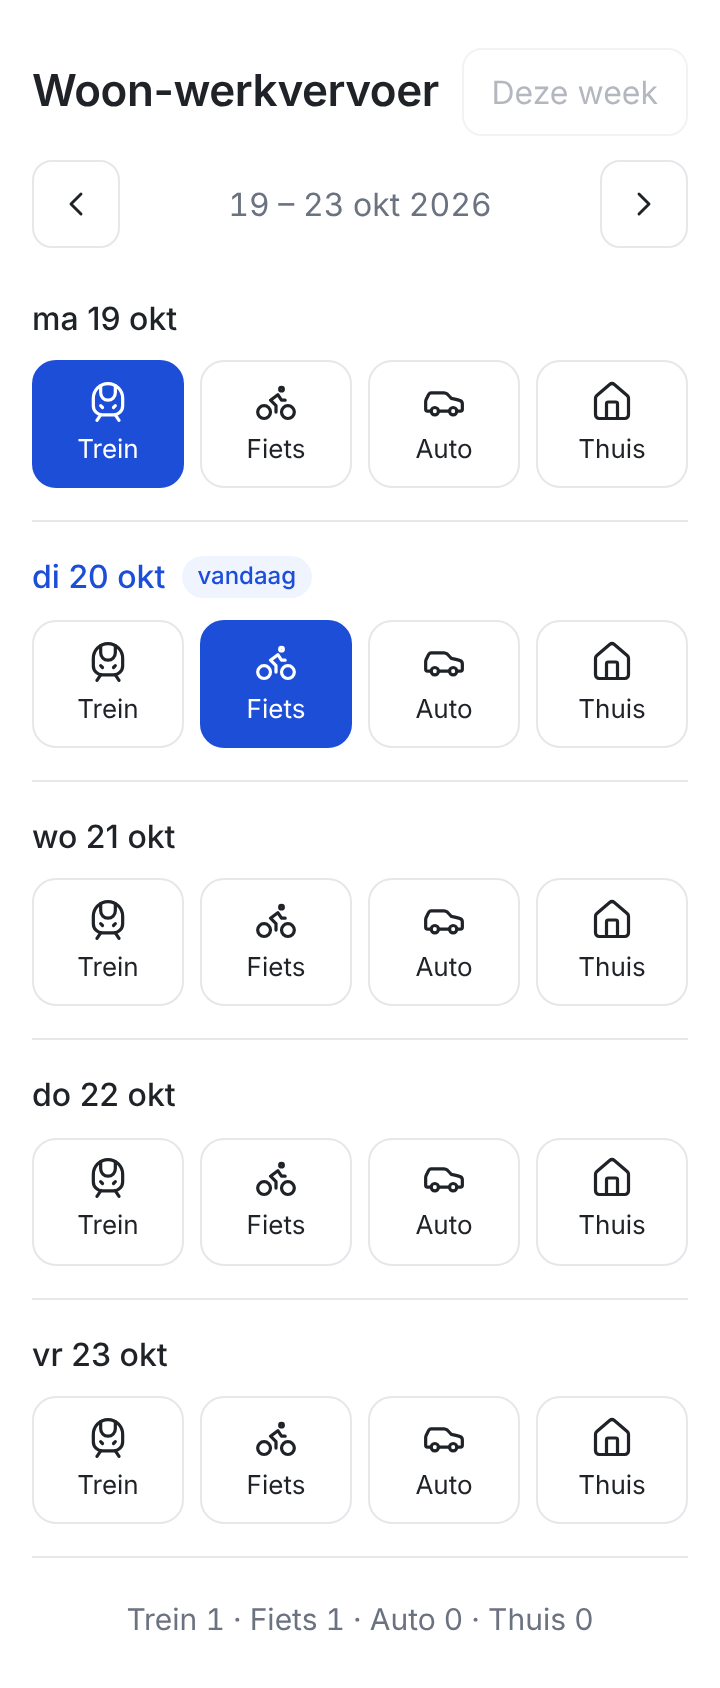
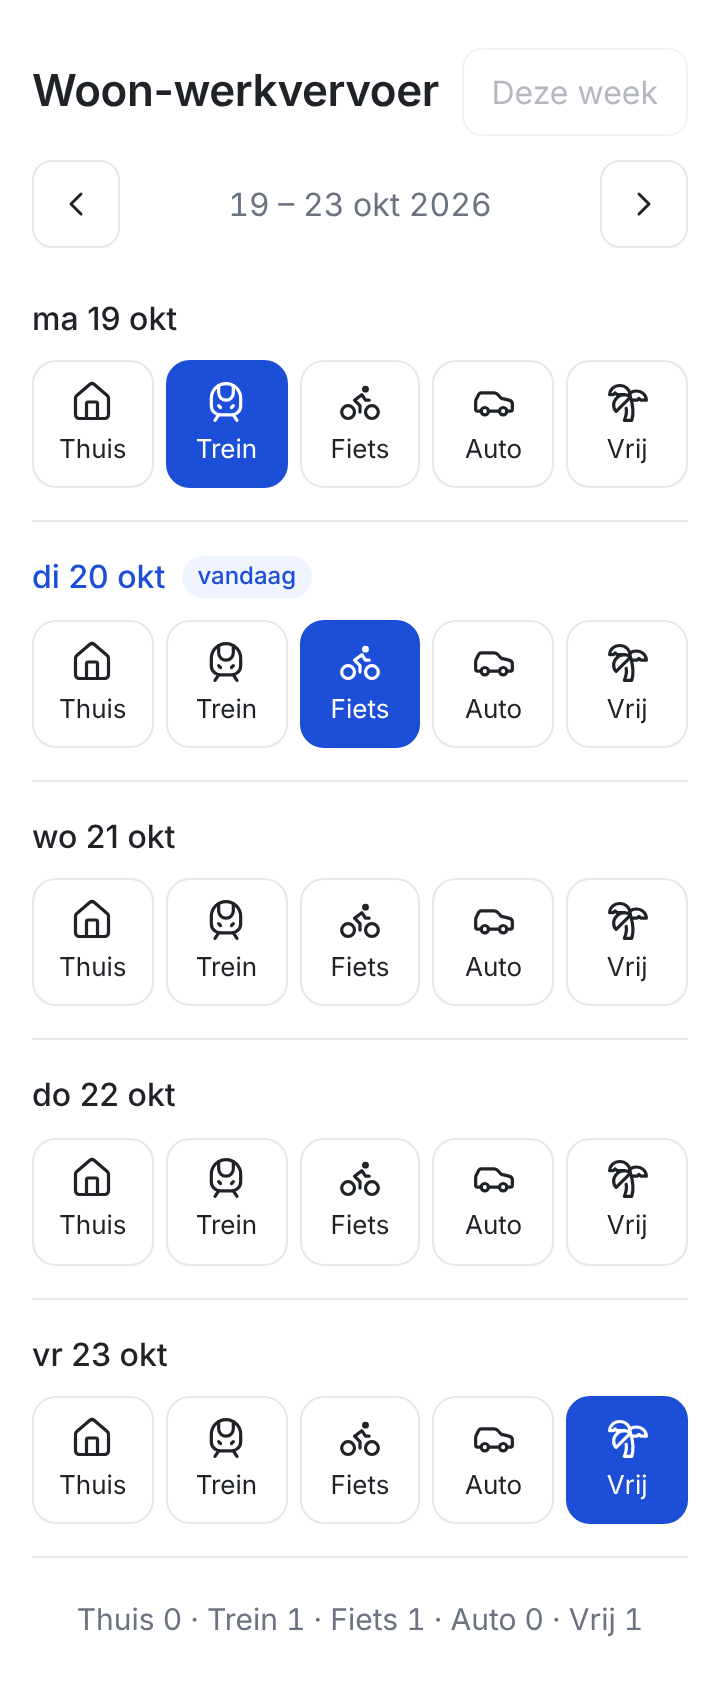
Keuze "Vrij" toevoegen en volgorde aanpassen (SPEC v0.6)
Volgorde van de knoppen en totalen is nu Thuis, Trein, Fiets, Auto, Vrij.
Nieuw criterium AC2b test die volgorde; AC8 telt ook Vrij mee.

Claude-Session: https://claude.ai/code/session_01HkgF8UVQLVV5ARiTjKdSa4

diff --git a/src/App.test.tsx b/src/App.test.tsx
@@ -55,6 +55,15 @@ describe('AC2 en AC3: vervoer kiezen', () => {
     expect(chosenModes('dinsdag 20 oktober')).toEqual(['Fiets'])
   })
 
+  it('toont de knoppen in de volgorde Thuis, Trein, Fiets, Auto, Vrij (AC2b)', () => {
+    render(<App />)
+    for (const d of screen.getAllByRole('listitem')) {
+      expect(within(d).getAllByRole('button').map((b) => b.textContent)).toEqual([
+        'Thuis', 'Trein', 'Fiets', 'Auto', 'Vrij',
+      ])
+    }
+  })
+
   it('verandert niets aan de andere dagen', async () => {
     const user = userEvent.setup()
     render(<App />)
@@ -130,7 +139,8 @@ describe('AC8: weektotalen', () => {
     await user.click(modeButton('dinsdag 20 oktober', 'Trein'))
     await user.click(modeButton('woensdag 21 oktober', 'Fiets'))
     await user.click(modeButton('donderdag 22 oktober', 'Thuis'))
-    expect(screen.getByTestId('totalen')).toHaveTextContent('Trein 2 · Fiets 1 · Auto 0 · Thuis 1')
+    await user.click(modeButton('vrijdag 23 oktober', 'Vrij'))
+    expect(screen.getByTestId('totalen')).toHaveTextContent('Thuis 1 · Trein 2 · Fiets 1 · Auto 0 · Vrij 1')
   })
 })
 

diff --git a/src/App.tsx b/src/App.tsx
@@ -1,13 +1,14 @@
 import { useEffect, useState } from 'react'
-import { Bike, Car, ChevronLeft, ChevronRight, House, TrainFront, type LucideIcon } from 'lucide-react'
+import { Bike, Car, ChevronLeft, ChevronRight, House, TrainFront, TreePalm, type LucideIcon } from 'lucide-react'
 import { dateKey, longLabel, mondayOf, shortLabel, addDays, weekLabel, workdays } from './dates'
 import { MODES, loadRegistrations, saveRegistrations, type Mode, type Registrations } from './storage'
 
 const MODE_INFO: Record<Mode, { label: string; Icon: LucideIcon }> = {
+  thuis: { label: 'Thuis', Icon: House },
   trein: { label: 'Trein', Icon: TrainFront },
   fiets: { label: 'Fiets', Icon: Bike },
   auto: { label: 'Auto', Icon: Car },
-  thuis: { label: 'Thuis', Icon: House },
+  vrij: { label: 'Vrij', Icon: TreePalm },
 }
 
 export default function App() {

diff --git a/src/storage.ts b/src/storage.ts
@@ -1,4 +1,4 @@
-export const MODES = ['trein', 'fiets', 'auto', 'thuis'] as const
+export const MODES = ['thuis', 'trein', 'fiets', 'auto', 'vrij'] as const
 export type Mode = (typeof MODES)[number]
 export type Registrations = Record<string, Mode>
 

diff --git a/src/index.css b/src/index.css
@@ -124,8 +124,8 @@ h1 {
 
 .modes {
   display: grid;
-  grid-template-columns: repeat(4, 1fr);
-  gap: 8px;
+  grid-template-columns: repeat(5, 1fr);
+  gap: 6px;
 }
 
 .mode {

diff --git a/SPEC.md b/SPEC.md
@@ -1,7 +1,7 @@
 # Specificatie: Woon-werkvervoer registreren
 
 Status: **goedgekeurd door Greco op 20 oktober 2026**
-Versie: 0.5 (20 oktober 2026)
+Versie: 0.6 (20 oktober 2026): keuze "Vrij" toegevoegd en volgorde aangepast op verzoek van Greco
 
 ## 1. Doel
 
@@ -15,8 +15,9 @@ Eén persoon (Greco) die de app op zijn telefoon gebruikt, via een snelkoppeling
 
 ## 3. Begrippen
 
-- **Vervoermiddel**: precies één van deze vier keuzes per dag:
-  Trein, Fiets, Auto, Thuis. Elk heeft een eigen strak lijnicoon (trein, fiets, auto, huis).
+- **Keuze**: precies één van deze vijf keuzes per dag, altijd in deze volgorde:
+  Thuis, Trein, Fiets, Auto, Vrij. Elk heeft een eigen strak lijnicoon (huis, trein, fiets, auto, palmboom).
+  "Vrij" gebruik je voor een vrije dag, zoals vakantie of een feestdag.
 - **Werkdag**: maandag t/m vrijdag. Zaterdag en zondag worden niet getoond.
 
 ## 4. Functies
@@ -24,11 +25,11 @@ Eén persoon (Greco) die de app op zijn telefoon gebruikt, via een snelkoppeling
 | Nr | Functie | Omschrijving |
 |----|---------|--------------|
 | F1 | Weekoverzicht | Het scherm toont één week: vijf regels, maandag t/m vrijdag, elk met datum (bijv. "ma 20 okt"). Bij openen is dat de huidige week. |
-| F2 | Vervoer kiezen | Elke dag heeft vier knoppen (Trein, Fiets, Auto, Thuis). Eén klik legt de keuze vast; de gekozen knop is duidelijk gemarkeerd. |
+| F2 | Vervoer kiezen | Elke dag heeft vijf knoppen (Thuis, Trein, Fiets, Auto, Vrij). Eén klik legt de keuze vast; de gekozen knop is duidelijk gemarkeerd. |
 | F3 | Keuze wijzigen of wissen | Klik op een andere knop om de keuze te veranderen. Klik op de al gekozen knop om de keuze te wissen. |
 | F4 | Bladeren | Knoppen "◀ Vorige week" en "Volgende week ▶" en een knop "Deze week" om terug te springen. |
 | F5 | Vandaag herkennen | De regel van vandaag is visueel gemarkeerd, zodat je in één oogopslag ziet waar je moet klikken. |
-| F6 | Weektotalen | Onder de week staat per vervoermiddel hoeveel dagen het gekozen is, bijvoorbeeld "Trein 2 · Fiets 1 · Auto 0 · Thuis 2". |
+| F6 | Weektotalen | Onder de week staat per vervoermiddel hoeveel dagen het gekozen is, in dezelfde volgorde, bijvoorbeeld "Thuis 2 · Trein 2 · Fiets 1 · Auto 0 · Vrij 0". |
 | F7 | Onthouden | Alle keuzes blijven bewaard na verversen of het sluiten van de browser (opslag op de telefoon zelf). |
 | F8 | Op beginscherm | De app kan via "Zet op beginscherm" als icoon op de telefoon worden gezet en opent dan schermvullend, zonder adresbalk, net als een gewone app. |
 
@@ -38,12 +39,13 @@ Deze criteria worden ook als automatische tests in de code opgenomen.
 
 - **AC1 (F1)** Bij openen zie ik vijf dagen, maandag t/m vrijdag van de huidige week, met de juiste datums. Zaterdag en zondag staan er niet bij.
 - **AC2 (F2)** Als ik bij dinsdag op "Fiets" klik, is "Fiets" bij dinsdag gemarkeerd en de andere drie knoppen van dinsdag niet.
+- **AC2b (F2)** Elke dag toont de knoppen in de volgorde Thuis, Trein, Fiets, Auto, Vrij.
 - **AC3 (F2)** Een keuze bij de ene dag verandert niets aan de andere dagen.
 - **AC4 (F3)** Als dinsdag "Fiets" heeft en ik klik op "Trein", heeft dinsdag "Trein".
 - **AC5 (F3)** Als dinsdag "Fiets" heeft en ik klik nogmaals op "Fiets", heeft dinsdag geen keuze meer.
 - **AC6 (F4)** Na "Volgende week" zie ik de maandag t/m vrijdag van de week erna; na "Deze week" zie ik weer de huidige week. Keuzes in een andere week blijven bewaard als ik terugblader.
 - **AC7 (F5)** Op een werkdag is de regel van vandaag gemarkeerd; in een andere week is geen regel gemarkeerd.
-- **AC8 (F6)** Met de keuzes Trein, Trein, Fiets, Thuis en een lege dag toont de week "Trein 2 · Fiets 1 · Auto 0 · Thuis 1".
+- **AC8 (F6)** Met de keuzes Trein, Trein, Fiets, Thuis en Vrij toont de week "Thuis 1 · Trein 2 · Fiets 1 · Auto 0 · Vrij 1".
 - **AC9 (F7)** Na het verversen van de pagina staan alle keuzes er nog.
 - **AC10 (F8)** De app heeft een naam, een eigen icoon en een app-manifest, zodat "Zet op beginscherm" een schermvullende app oplevert.
 - **AC11 (ontwerp)** Op een telefoonscherm van 360 pixels breed past alles zonder zijwaarts scrollen, en elke knop is minstens 44 pixels hoog, zodat hij makkelijk met een duim te raken is.
@@ -56,13 +58,13 @@ Strak, modern en minimalistisch. Geen toeters en bellen.
 - **Typografie**: het standaard systeemlettertype van het apparaat (zoals San Francisco of Segoe UI), in twee groottes: een titel en normale tekst.
 - **Knoppen**: een strak lijnicoon met de naam eronder, zodat elk vervoermiddel direct herkenbaar is. Dunne rand en afgeronde hoeken. De gekozen knop is gevuld met de accentkleur en witte tekst.
 - **Indeling**: smalle kolom gecentreerd op het scherm, ruime witruimte tussen de dagen, dunne lijnen als scheiding.
-- **Mobiel eerst**: ontworpen voor een telefoonscherm, met grote knoppen voor je duim; de vier knoppen passen naast elkaar. Op een groter scherm blijft het een smalle kolom.
+- **Mobiel eerst**: ontworpen voor een telefoonscherm, met grote knoppen voor je duim; de vijf knoppen passen naast elkaar. Op een groter scherm blijft het een smalle kolom.
 - **Geen extra's**: geen logo, geen afbeeldingen, geen meldingen of pop-ups.
 
 ## 7. Buiten scope (versie 1)
 
 Werktijden, kilometers of kosten, maand- of jaaroverzichten, exporteren naar
-Excel, feestdagen of vakantie, weekenddagen, accounts, synchroniseren tussen
+Excel, automatisch herkennen van feestdagen of vakantie, weekenddagen, accounts, synchroniseren tussen
 apparaten, werken zonder internetverbinding.
 
 ## 8. Techniek

diff --git a/README.md b/README.md
@@ -1,6 +1,6 @@
 # Woon-werkvervoer
 
-Leg per werkdag met één tik vast hoe je naar je werk bent gegaan: trein, fiets, auto of thuis.
+Leg per werkdag met één tik vast hoe je naar je werk bent gegaan: thuis, trein, fiets, auto of vrij.
 De specificatie staat in [SPEC.md](SPEC.md).
 
 De app staat online op https://steenmetzg.github.io/woon-werkvervoer/
